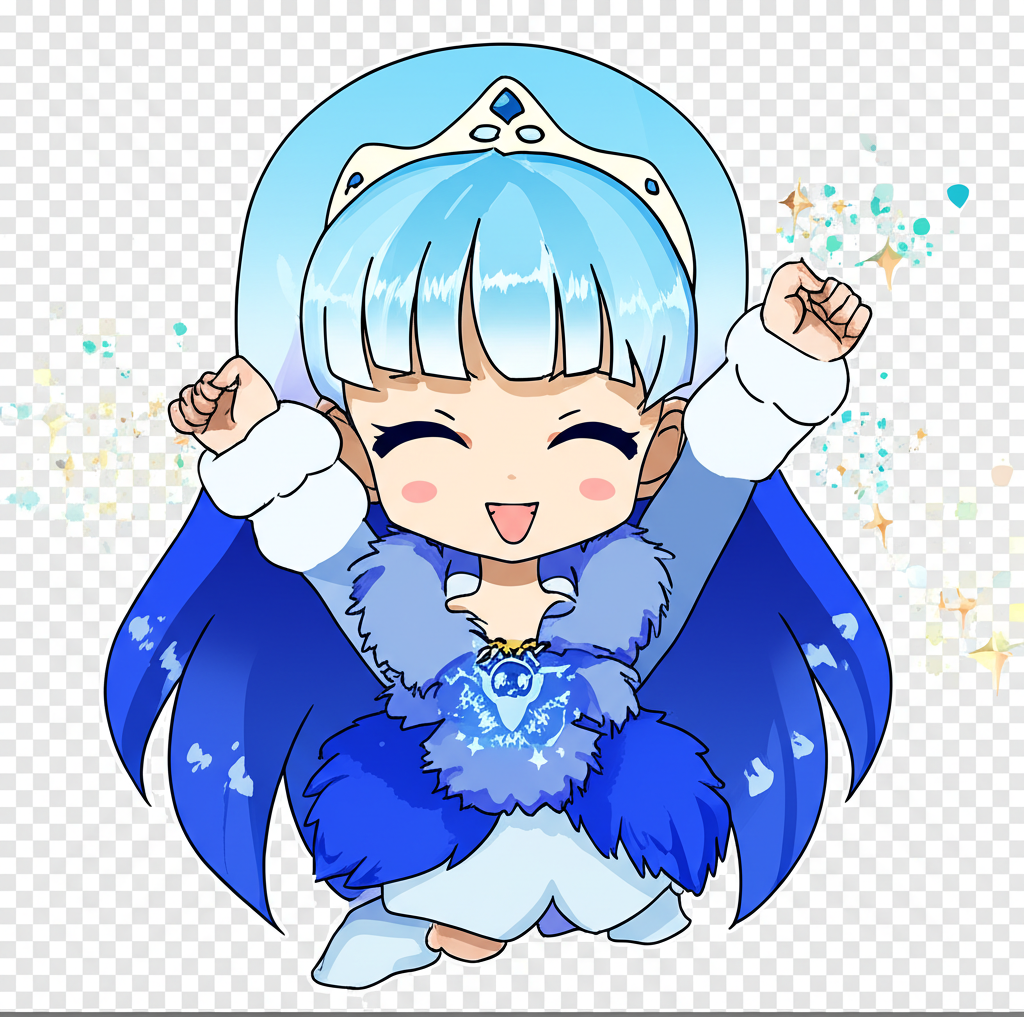
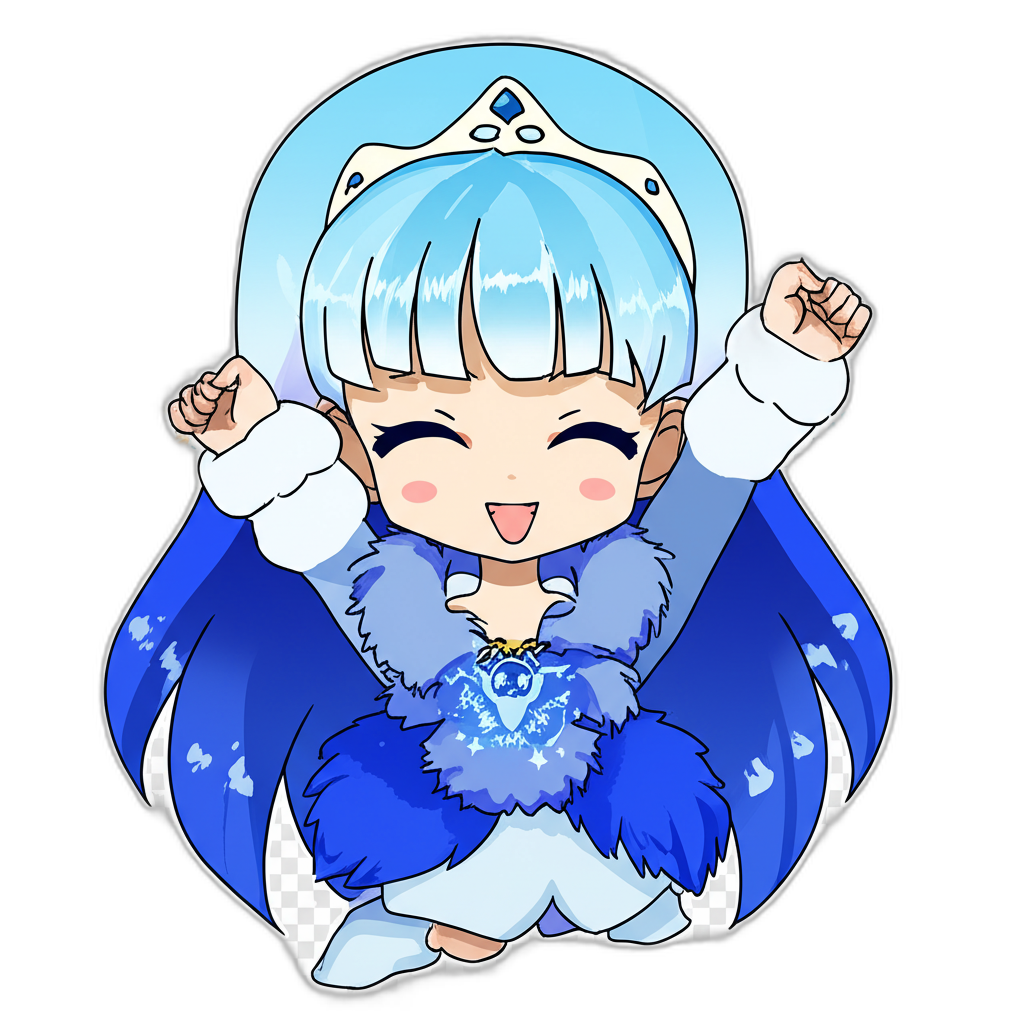
Fix title screen, transparent sprites, and Match Pairs difficulty
- Add background image and music to title screen
- Remove backgrounds from all 6 character/monster sprites using rembg
- Match Pairs: reduce from 6 to 4 pairs, increase timer to 45s, ensure unique answers
- Add remove_bg.py utility script for background removal

Changed region(s): [[0.0, 0.0, 1.0, 1.0]]

diff --git a/index.html b/index.html
@@ -122,8 +122,8 @@
        TITLE SCREEN
        ============================================ */
     #title-screen {
-      background: linear-gradient(135deg, var(--arielle-blue-light), var(--magic-purple-light), var(--gold-light));
-      animation: bg-shift 10s ease-in-out infinite alternate;
+      background: url('assets/images/backgrounds/chapter1-meadow.png') center/cover no-repeat,
+                  linear-gradient(135deg, var(--arielle-blue-light), var(--magic-purple-light), var(--gold-light));
     }
 
     @keyframes bg-shift {
@@ -993,6 +993,10 @@
         document.addEventListener('click', () => {
           this.createContext();
           this.preloadMusic();
+          // Play title music on first click if on title screen
+          if (document.getElementById('title-screen').classList.contains('active')) {
+            this.playBGM('title');
+          }
         }, { once: true });
       },
 
@@ -1010,6 +1014,10 @@
       },
 
       preloadMusic() {
+        this.bgmElements.title = new Audio('assets/audio/music/story-bgm.mp3');
+        this.bgmElements.title.loop = true;
+        this.bgmElements.title.volume = this.settings.musicVolume;
+
         this.bgmElements.story = new Audio('assets/audio/music/story-bgm.mp3');
         this.bgmElements.story.loop = true;
         this.bgmElements.story.volume = this.settings.musicVolume;
@@ -1338,11 +1346,20 @@
 
       generateMatchPairs() {
         const pairs = [];
-        for (let i = 0; i < 6; i++) {
+        const usedAnswers = new Set();
+
+        while (pairs.length < 4) {
           const problem = this.generate();
+          // Skip duplicate answers to avoid confusion
+          if (usedAnswers.has(problem.answer)) {
+            continue;
+          }
+          usedAnswers.add(problem.answer);
+
+          const pairId = pairs.length;
           pairs.push(
-            { id: i * 2, type: 'problem', value: `${problem.a}×${problem.b}`, pairId: i },
-            { id: i * 2 + 1, type: 'answer', value: problem.answer.toString(), pairId: i }
+            { id: pairId * 2, type: 'problem', value: `${problem.a}×${problem.b}`, pairId },
+            { id: pairId * 2 + 1, type: 'answer', value: problem.answer.toString(), pairId }
           );
         }
         return pairs.sort(() => Math.random() - 0.5);
@@ -1570,7 +1587,7 @@
           grid.appendChild(btn);
         });
 
-        TimerSystem.start(30000);
+        TimerSystem.start(45000);
       },
 
       checkSelectionAnswer(answer, btn) {

diff --git a/remove_bg.py b/remove_bg.py
@@ -1,0 +1,33 @@
+#!/usr/bin/env python3
+"""Remove background from images using rembg."""
+
+import sys
+from pathlib import Path
+from rembg import remove
+from PIL import Image
+
+
+def remove_background(input_path: str, output_path: str = None):
+    """Remove background from an image.
+
+    Args:
+        input_path: Path to input image
+        output_path: Path to save output (defaults to overwriting input)
+    """
+    if output_path is None:
+        output_path = input_path  # Overwrite original
+
+    input_img = Image.open(input_path)
+    output_img = remove(input_img)
+    output_img.save(output_path)
+    print(f"Background removed: {output_path}")
+
+
+if __name__ == "__main__":
+    if len(sys.argv) < 2:
+        print("Usage: python remove_bg.py <input_image> [output_image]")
+        sys.exit(1)
+
+    input_file = sys.argv[1]
+    output_file = sys.argv[2] if len(sys.argv) > 2 else None
+    remove_background(input_file, output_file)
